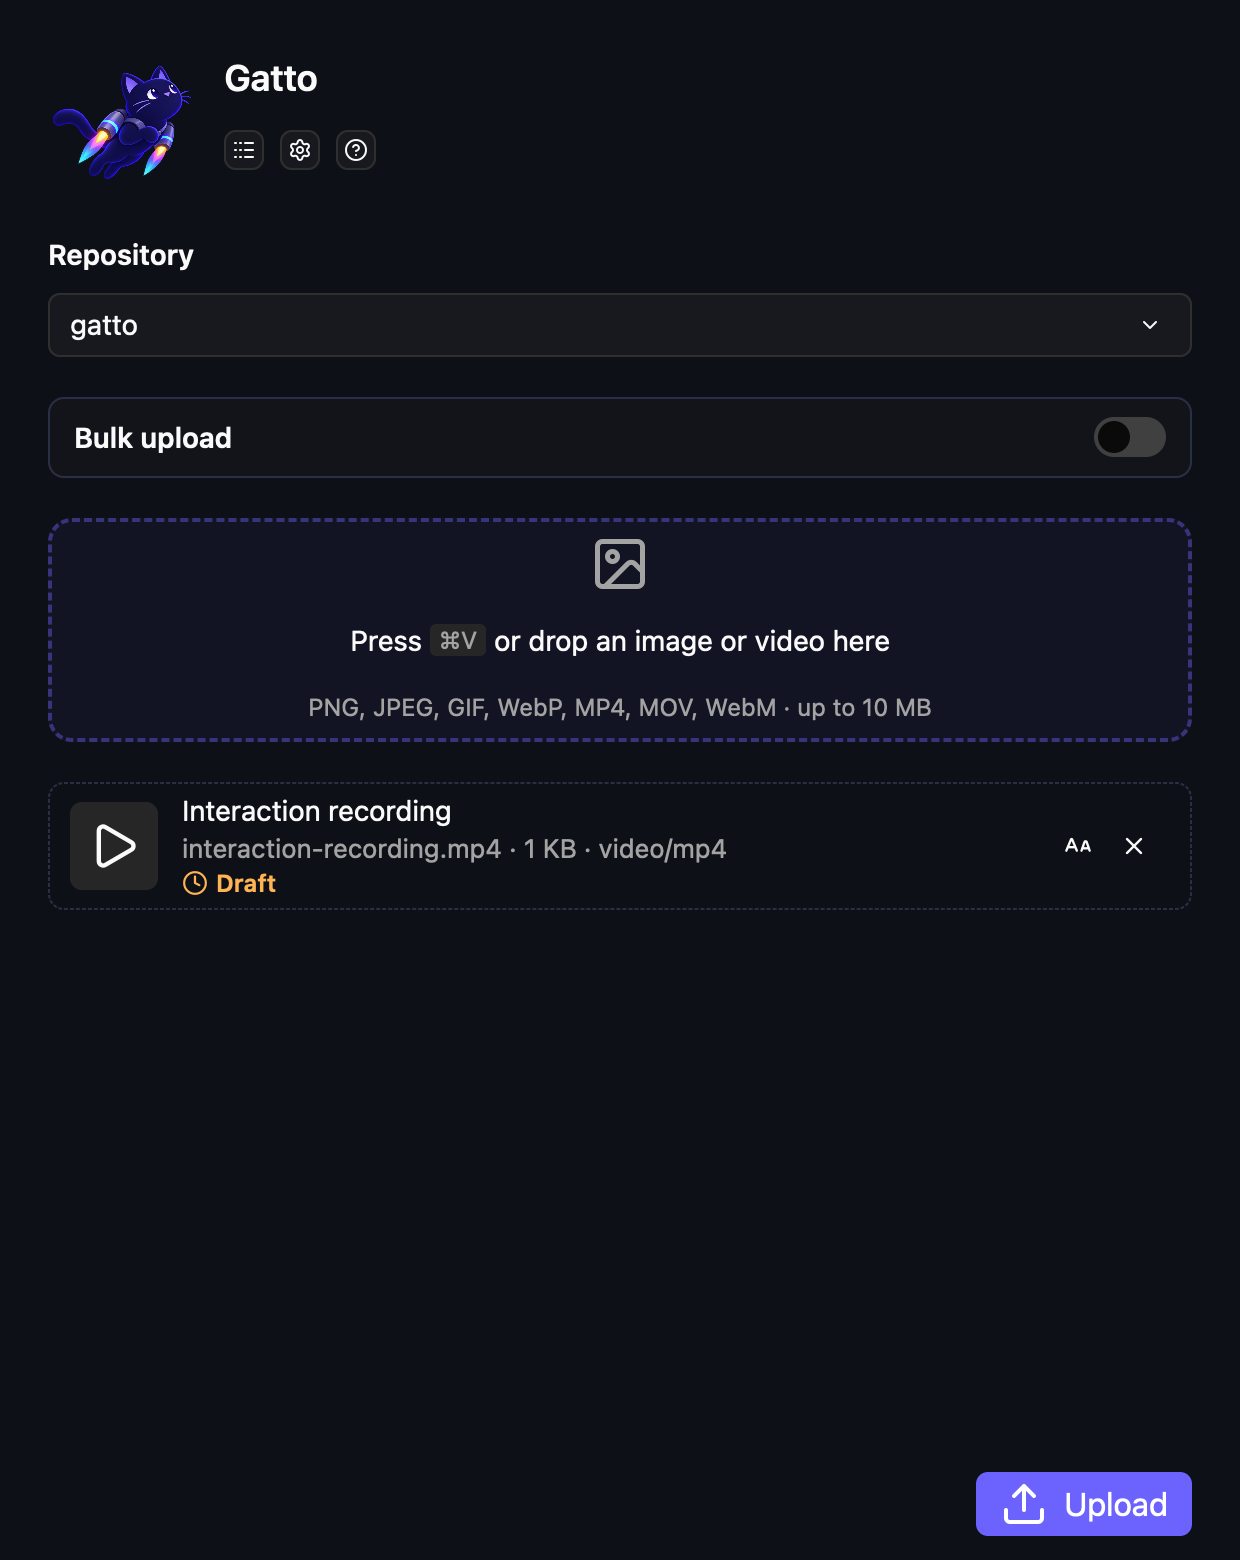
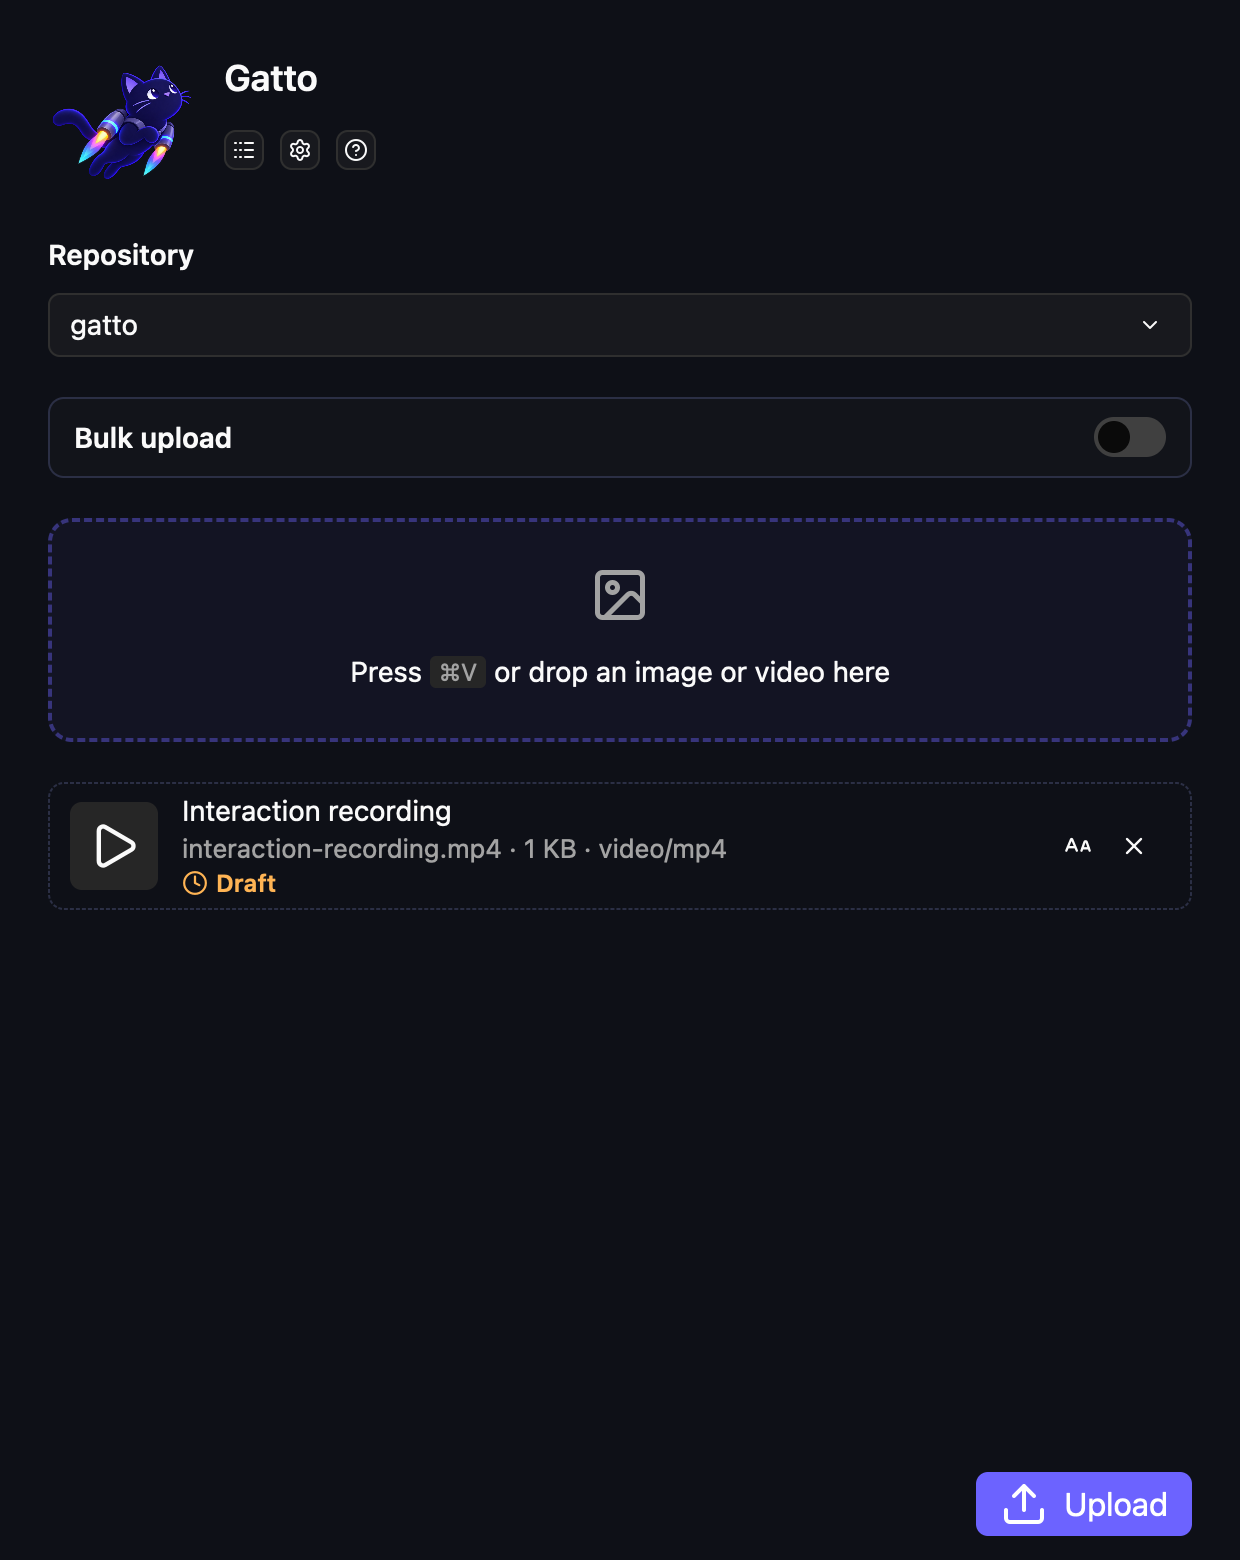
feat: Update error handling for unsupported media types and refine walkthrough documentation

Changed region(s): [[0.2452, 0.3385, 0.7661, 0.4615]]

diff --git a/src/model.rs b/src/model.rs
@@ -14,8 +14,7 @@ use gpui_kit::{Image, ImageFormat};
 use crate::video::Video;
 
 pub const MAX_ATTACHMENT_BYTES: u64 = 10_000_000;
-pub const SUPPORTED_MEDIA_MESSAGE: &str =
-    "Choose a PNG, JPEG, GIF, WebP, MP4, MOV, or WebM file within your upload limit.";
+pub const UNSUPPORTED_MEDIA_MESSAGE: &str = "Unsupported file type.";
 
 #[derive(Clone, Copy, Debug, Default, PartialEq, Eq)]
 pub enum VideoUploadLimit {
@@ -226,8 +225,7 @@ impl StagedAttachment {
 
     pub fn from_clipboard(image: &Image) -> Result<Self> {
         validate_size(image.bytes.len() as u64, MAX_ATTACHMENT_BYTES)?;
-        let format = supported_gpui_format(image.format)
-            .context("Unsupported image format. Choose PNG, JPEG, GIF, or WebP; videos must be MP4, MOV, or WebM.")?;
+        let format = supported_gpui_format(image.format).context(UNSUPPORTED_MEDIA_MESSAGE)?;
         let pixel_size = validate_image_bytes(&image.bytes, format)?;
 
         let timestamp = SystemTime::now()
@@ -252,16 +250,13 @@ impl StagedAttachment {
     }
 
     fn from_bytes(name: String, bytes: Vec<u8>, path: Option<&Path>) -> Result<Self> {
-        let guessed = ::image::guess_format(&bytes)
-            .context("Unsupported image format. Choose PNG, JPEG, GIF, or WebP; videos must be MP4, MOV, or WebM.")?;
+        let guessed = ::image::guess_format(&bytes).context(UNSUPPORTED_MEDIA_MESSAGE)?;
         let format = match guessed {
             ::image::ImageFormat::Png => ImageFormat::Png,
             ::image::ImageFormat::Jpeg => ImageFormat::Jpeg,
             ::image::ImageFormat::Gif => ImageFormat::Gif,
             ::image::ImageFormat::WebP => ImageFormat::Webp,
-            _ => bail!(
-                "Unsupported image format. Choose PNG, JPEG, GIF, or WebP; videos must be MP4, MOV, or WebM."
-            ),
+            _ => bail!(UNSUPPORTED_MEDIA_MESSAGE),
         };
 
         if let Some(path) = path {
@@ -271,9 +266,7 @@ impl StagedAttachment {
                 .unwrap_or_default()
                 .to_ascii_lowercase();
             if !matches!(extension.as_str(), "png" | "jpg" | "jpeg" | "gif" | "webp") {
-                bail!(
-                    "Unsupported image format. Choose PNG, JPEG, GIF, or WebP; videos must be MP4, MOV, or WebM."
-                );
+                bail!(UNSUPPORTED_MEDIA_MESSAGE);
             }
         }
 
@@ -333,9 +326,7 @@ fn validate_image_bytes(bytes: &[u8], format: ImageFormat) -> Result<(u32, u32)>
         ImageFormat::Jpeg => ::image::ImageFormat::Jpeg,
         ImageFormat::Gif => ::image::ImageFormat::Gif,
         ImageFormat::Webp => ::image::ImageFormat::WebP,
-        _ => bail!(
-            "Unsupported image format. Choose PNG, JPEG, GIF, or WebP; videos must be MP4, MOV, or WebM."
-        ),
+        _ => bail!(UNSUPPORTED_MEDIA_MESSAGE),
     };
     let image = ::image::load_from_memory_with_format(bytes, image_format)
         .context("The image data is corrupt or unreadable")?;
@@ -447,6 +438,20 @@ mod media_tests {
     use std::io::{Seek as _, Write as _};
 
     pub(crate) const VIDEO: &[u8] = include_bytes!("../tests/fixtures/sample.mp4");
+
+    #[test]
+    fn unsupported_file_types_have_a_concise_error() {
+        let mut file = tempfile::Builder::new().suffix(".txt").tempfile().unwrap();
+        file.write_all(b"not a supported media file").unwrap();
+
+        let error =
+            match StagedAttachment::from_path(file.path().into(), VideoUploadLimit::Standard) {
+                Ok(_) => panic!("unsupported file type should not be staged"),
+                Err(error) => error,
+            };
+
+        assert_eq!(error.to_string(), UNSUPPORTED_MEDIA_MESSAGE);
+    }
 
     #[test]
     fn paid_video_limit_preserves_image_limit_and_rechecks_staged_files() {

diff --git a/src/app.rs b/src/app.rs
@@ -47,8 +47,8 @@ use crate::{
     log_viewer::LogViewer,
     menu_bar::MenuBarController,
     model::{
-        AttachmentUploadState, Media, OversizedVideo, Repository, SUPPORTED_MEDIA_MESSAGE,
-        StagedAttachment, VideoUploadLimit, parse_owner,
+        AttachmentUploadState, Media, OversizedVideo, Repository, StagedAttachment,
+        UNSUPPORTED_MEDIA_MESSAGE, VideoUploadLimit, parse_owner,
     },
     settings::AppSettings,
     updater::{UpdateState, Updater},
@@ -66,7 +66,6 @@ actions!(
 );
 
 const KEY_CONTEXT: &str = "Gatto";
-const UNSUPPORTED_MESSAGE: &str = SUPPORTED_MEDIA_MESSAGE;
 const WALKTHROUGH_URL: &str = "https://github.com/jeremyc2/Gatto/blob/main/docs/WALKTHROUGH.md";
 const REPOSITORY_URL: &str = "https://github.com/jeremyc2/Gatto";
 
@@ -895,7 +894,7 @@ impl UploaderApp {
             return;
         }
         let Some(clipboard) = cx.read_from_clipboard() else {
-            self.warn(UNSUPPORTED_MESSAGE, window, cx);
+            self.warn(UNSUPPORTED_MEDIA_MESSAGE, window, cx);
             self.pending_menu_paste = false;
             self.pending_paste_repository = None;
             return;
@@ -938,7 +937,7 @@ impl UploaderApp {
             return;
         }
 
-        self.warn(UNSUPPORTED_MESSAGE, window, cx);
+        self.warn(UNSUPPORTED_MEDIA_MESSAGE, window, cx);
         self.pending_menu_paste = false;
         self.pending_paste_repository = None;
     }
@@ -2810,19 +2809,6 @@ impl UploaderApp {
                                 "or drop images or videos here"
                             } else {
                                 "or drop an image or video here"
-                            }),
-                    )
-                    .child(
-                        div()
-                            .text_xs()
-                            .text_center()
-                            .text_color(cx.theme().muted_foreground)
-                            .child(if self.settings.allow_large_videos {
-                                "Images up to 10 MB · MP4, MOV, WebM up to 100 MB"
-                            } else if bulk_upload {
-                                "PNG, JPEG, GIF, WebP, MP4, MOV, WebM · up to 10 MB each"
-                            } else {
-                                "PNG, JPEG, GIF, WebP, MP4, MOV, WebM · up to 10 MB"
                             }),
                     ),
             )

diff --git a/docs/WALKTHROUGH.md b/docs/WALKTHROUGH.md
@@ -19,6 +19,8 @@ Return to the main window and paste an image, drag a file into the drop zone, or
 click the drop zone to select a file. Gatto accepts PNG, JPEG, GIF, and WebP
 images, plus MP4, MOV, and WebM videos. You can also copy an image or video file
 in Finder and paste it into Gatto; a text URL is not a video clipboard payload.
+Unsupported file types produce an error notification when selected, dropped, or
+pasted.
 
 By default, each file must be at most **10 MB** (10,000,000 bytes), so the video
 limit works with Free and paid GitHub plans. Eligible paid-plan users can enable
